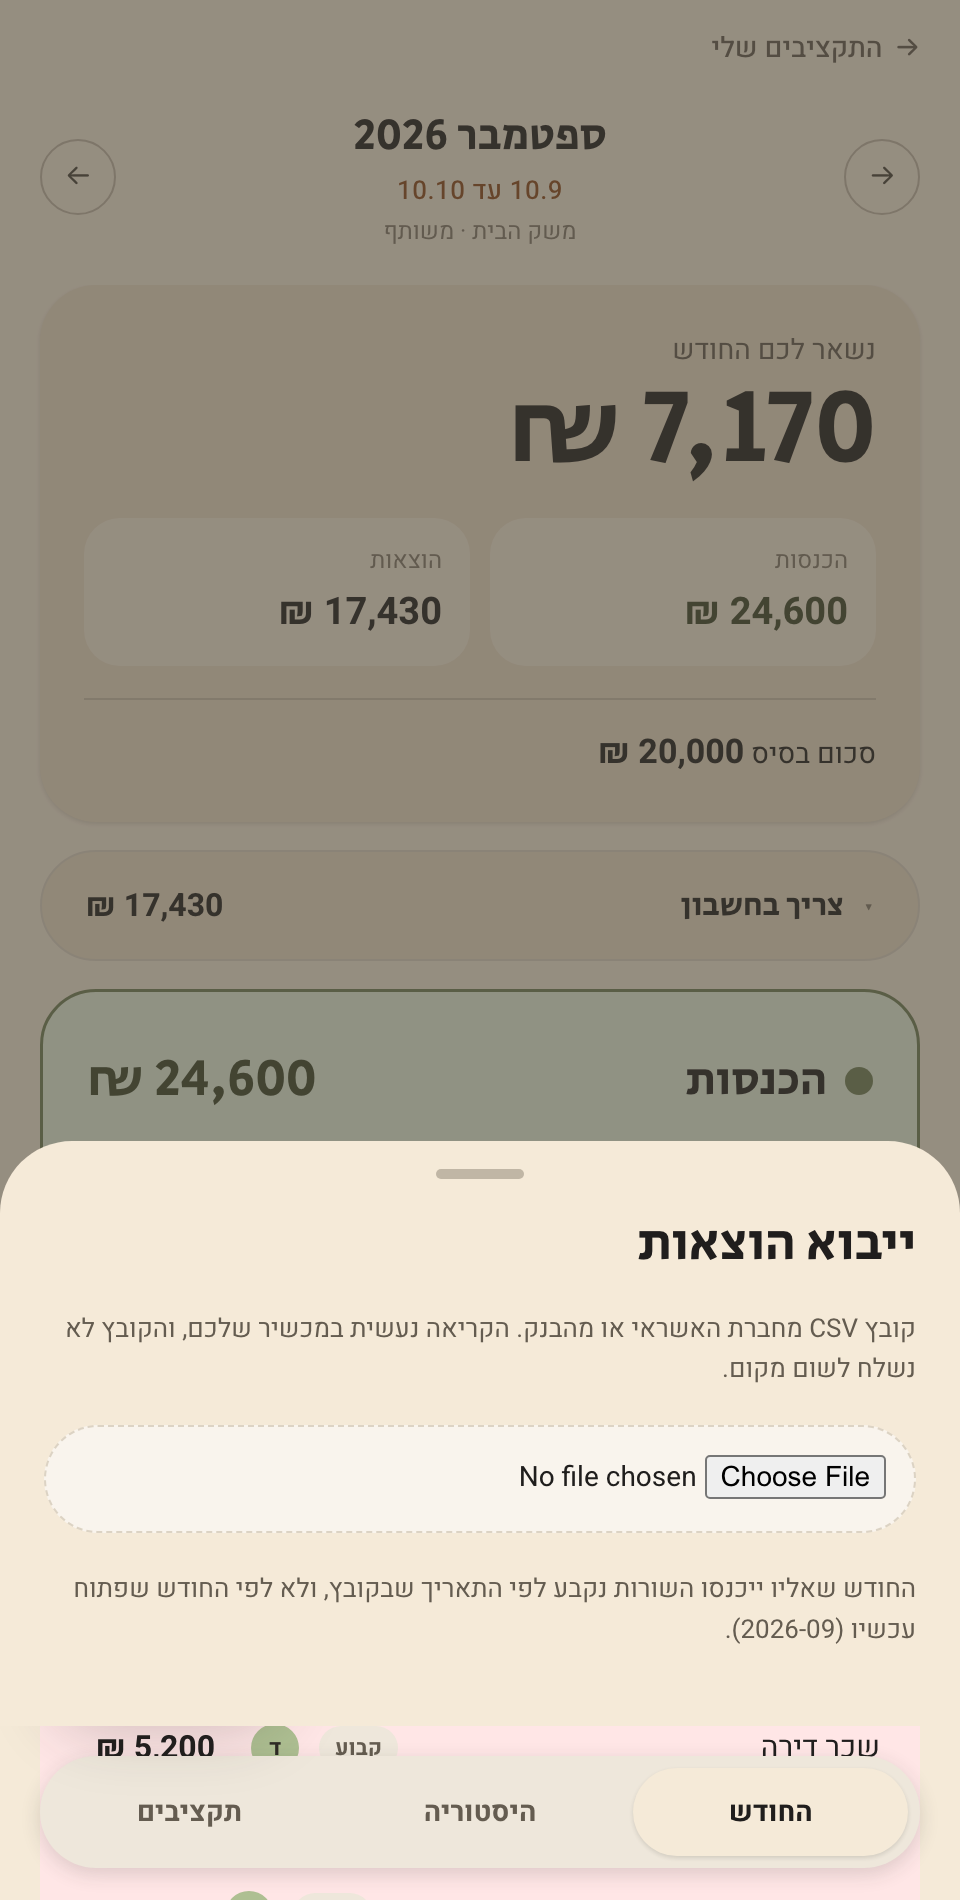
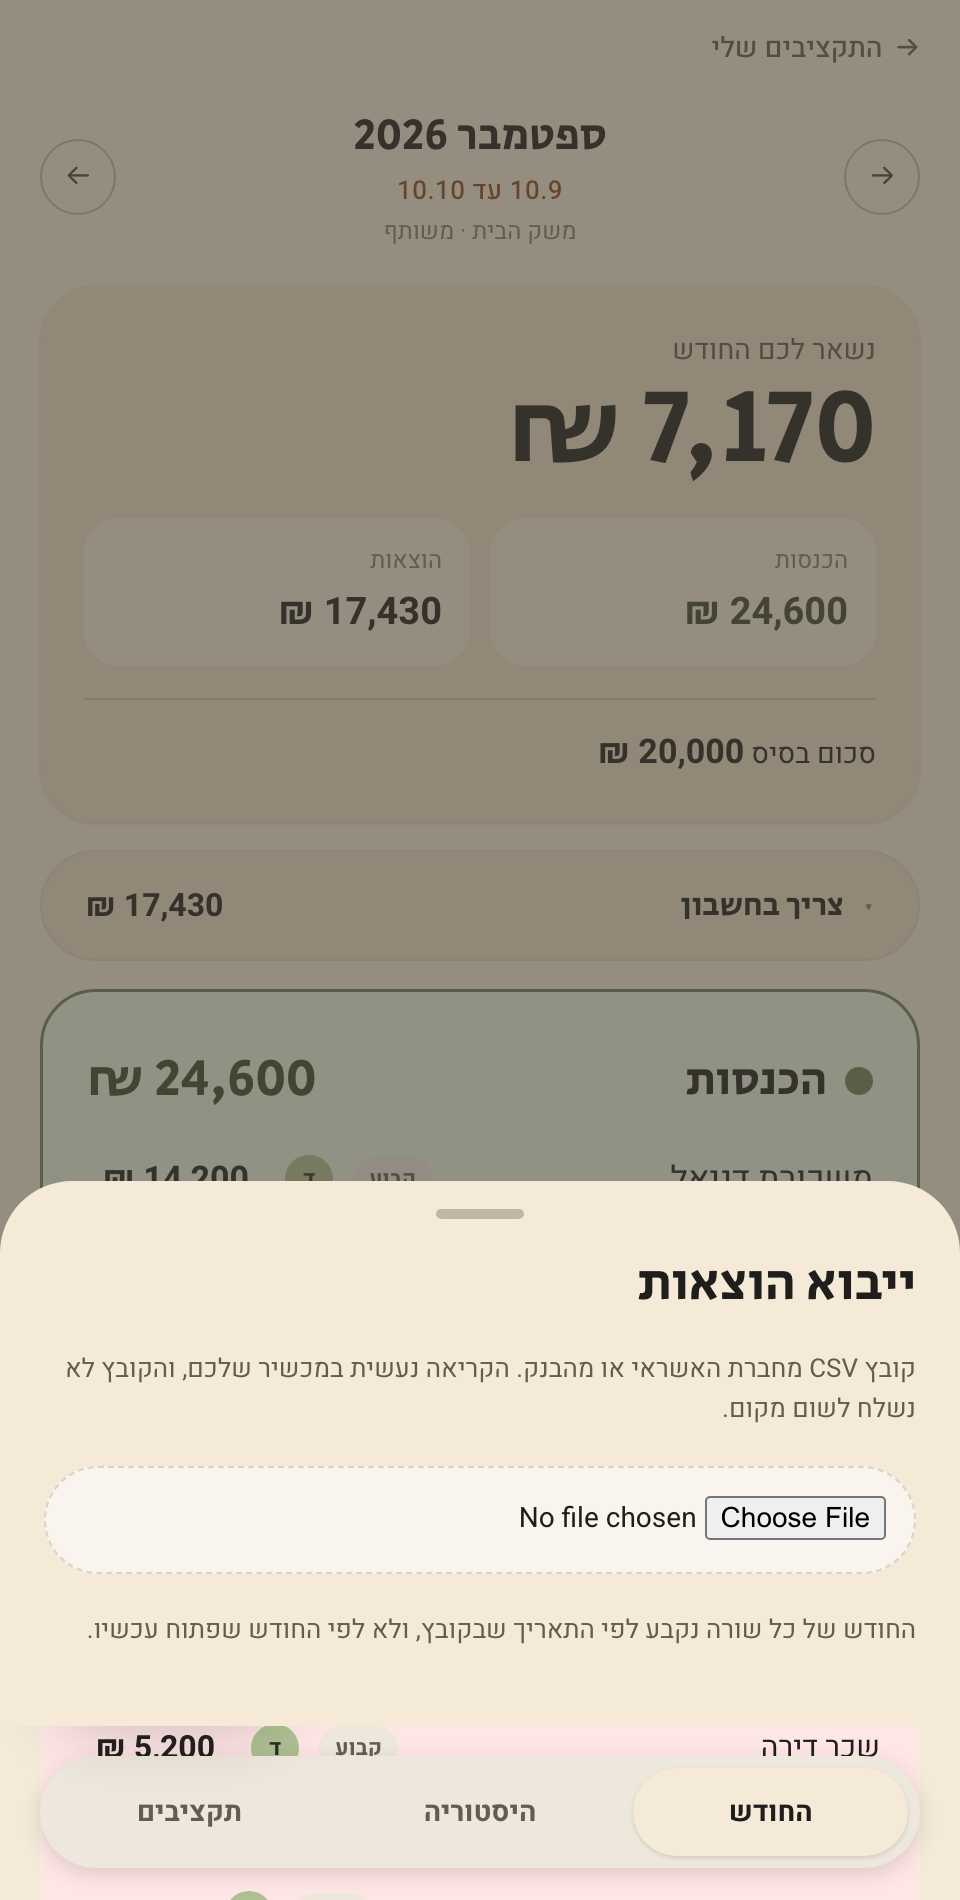
Say which months an imported file will land in
Every row already went to the month of its own date, so the open month
never mattered. That was written in a line at the bottom of the sheet,
which is the wrong place for it: the question comes up while looking at
the file, not after.

A statement covering a billing cycle crosses two calendar months, and
half its rows land on a screen the importer is not looking at. The
review step now names the months before anything is written, so rows
arriving somewhere else read as correct rather than as missing.

diff --git a/src/components/ImportSheet.jsx b/src/components/ImportSheet.jsx
@@ -1,8 +1,8 @@
 import { useMemo, useState } from 'react'
 import Sheet from './Sheet'
-import { shekels } from '../lib/format'
+import { monthLabel, shekels } from '../lib/format'
 import { parseCsv, readText } from '../lib/csv'
-import { byMerchant, detectColumns, extractRows } from '../lib/importRows'
+import { byMerchant, detectColumns, extractRows, monthsIn } from '../lib/importRows'
 import { EXPENSE_PILLS } from '../lib/pills'
 
 /**
@@ -15,7 +15,7 @@ import { EXPENSE_PILLS } from '../lib/pills'
  */
 const STEPS = { file: 'file', map: 'map', classify: 'classify', done: 'done' }
 
-export default function ImportSheet({ month, onImport, onClose }) {
+export default function ImportSheet({ onImport, onClose }) {
   const [step, setStep] = useState(STEPS.file)
   const [rows, setRows] = useState([])
   const [mapping, setMapping] = useState(null)
@@ -29,6 +29,7 @@ export default function ImportSheet({ month, onImport, onClose }) {
     [rows, mapping],
   )
   const merchants = useMemo(() => byMerchant(extracted.rows), [extracted.rows])
+  const months = useMemo(() => monthsIn(extracted.rows), [extracted.rows])
   const chosen = merchants.filter((group) => choices[group.name])
   const chosenTotal = chosen.reduce((total, group) => total + group.total, 0)
 
@@ -118,6 +119,15 @@ export default function ImportSheet({ month, onImport, onClose }) {
               {extracted.skipped > 0 && ' שורות בלי תאריך או בלי סכום, כמו שורות סיכום.'}
               {' '}זיכויים נכללים כסכום שלילי ומקזזים את בית העסק שלהם.
             </p>
+
+            {months.length > 0 && (
+              <p className="hint">
+                {months.length === 1
+                  ? `הכל ייכנס ל${monthLabel(months[0])}.`
+                  : `הקובץ חוצה חודשים, וכל שורה תיכנס לחודש שלה: ${
+                    months.map(monthLabel).join(', ')}.`}
+              </p>
+            )}
 
             <div className="sheet-actions">
               <button
@@ -213,8 +223,8 @@ export default function ImportSheet({ month, onImport, onClose }) {
         )}
 
         <p className="hint">
-          החודש שאליו ייכנסו השורות נקבע לפי התאריך שבקובץ, ולא לפי
-          החודש שפתוח עכשיו ({month}).
+          החודש של כל שורה נקבע לפי התאריך שבקובץ, ולא לפי החודש
+          שפתוח עכשיו.
         </p>
       </div>
     </Sheet>

diff --git a/tests/import.test.js b/tests/import.test.js
@@ -131,3 +131,18 @@ describe('מזהי שורות מיובאות', () => {
     expect(id.startsWith('imp_2026-09-03_שופרסל-דיל_')).toBe(true)
   })
 })
+
+describe('לאיזה חודש הקובץ נכנס', () => {
+  it('מדווח על כל החודשים שהקובץ נוגע בהם', async () => {
+    const { monthsIn } = await import('../src/lib/importRows')
+    expect(monthsIn([
+      { month: '2026-09' }, { month: '2026-10' }, { month: '2026-09' },
+    ])).toEqual(['2026-09', '2026-10'])
+  })
+
+  it('קובץ שכולו חודש אחד מדווח חודש אחד', async () => {
+    const { monthsIn } = await import('../src/lib/importRows')
+    expect(monthsIn([{ month: '2026-09' }, { month: '2026-09' }])).toEqual(['2026-09'])
+    expect(monthsIn([])).toEqual([])
+  })
+})

diff --git a/src/components/MonthView.jsx b/src/components/MonthView.jsx
@@ -256,7 +256,6 @@ export default function MonthView({ budgetId, budget, uid, nudge, onBack, onDele
 
       {importing && (
         <ImportSheet
-          month={month}
           onImport={(entries) => importEntries({ budgetId, uid, rows: entries })}
           onClose={() => setImporting(false)}
         />

diff --git a/src/lib/importRows.js b/src/lib/importRows.js
@@ -168,3 +168,7 @@ export function byMerchant(rows) {
   }
   return [...groups.values()].sort((a, b) => b.total - a.total)
 }
+
+/** אילו חודשים הקובץ נוגע בהם, לפי סדר. */
+export const monthsIn = (rows = []) =>
+  [...new Set(rows.map((row) => row.month))].sort()

diff --git a/src/dev/shots.jsx b/src/dev/shots.jsx
@@ -356,7 +356,7 @@ const SCREENS = {
   import: (
     <>
       <Month />
-      <ImportSheet month="2026-09" onImport={async () => ({ written: 0 })} onClose={noop} />
+      <ImportSheet onImport={async () => ({ written: 0 })} onClose={noop} />
     </>
   ),
   profile: (

diff --git a/README.md b/README.md
@@ -11,7 +11,7 @@ An installable PWA. No developer account, no app store, no native build.
 ![React](https://img.shields.io/badge/React-19-2a78d6?style=flat-square&logo=react&logoColor=white)
 ![Vite](https://img.shields.io/badge/Vite-8-7a8a5e?style=flat-square&logo=vite&logoColor=white)
 ![Firebase](https://img.shields.io/badge/Firebase-Firestore%20%2B%20Auth-eb6834?style=flat-square&logo=firebase&logoColor=white)
-![Tests](https://img.shields.io/badge/tests-196%20%2B%20108%20rules-1baf7a?style=flat-square)
+![Tests](https://img.shields.io/badge/tests-198%20%2B%20108%20rules-1baf7a?style=flat-square)
 
 The interface is in Hebrew and right to left throughout.
 
